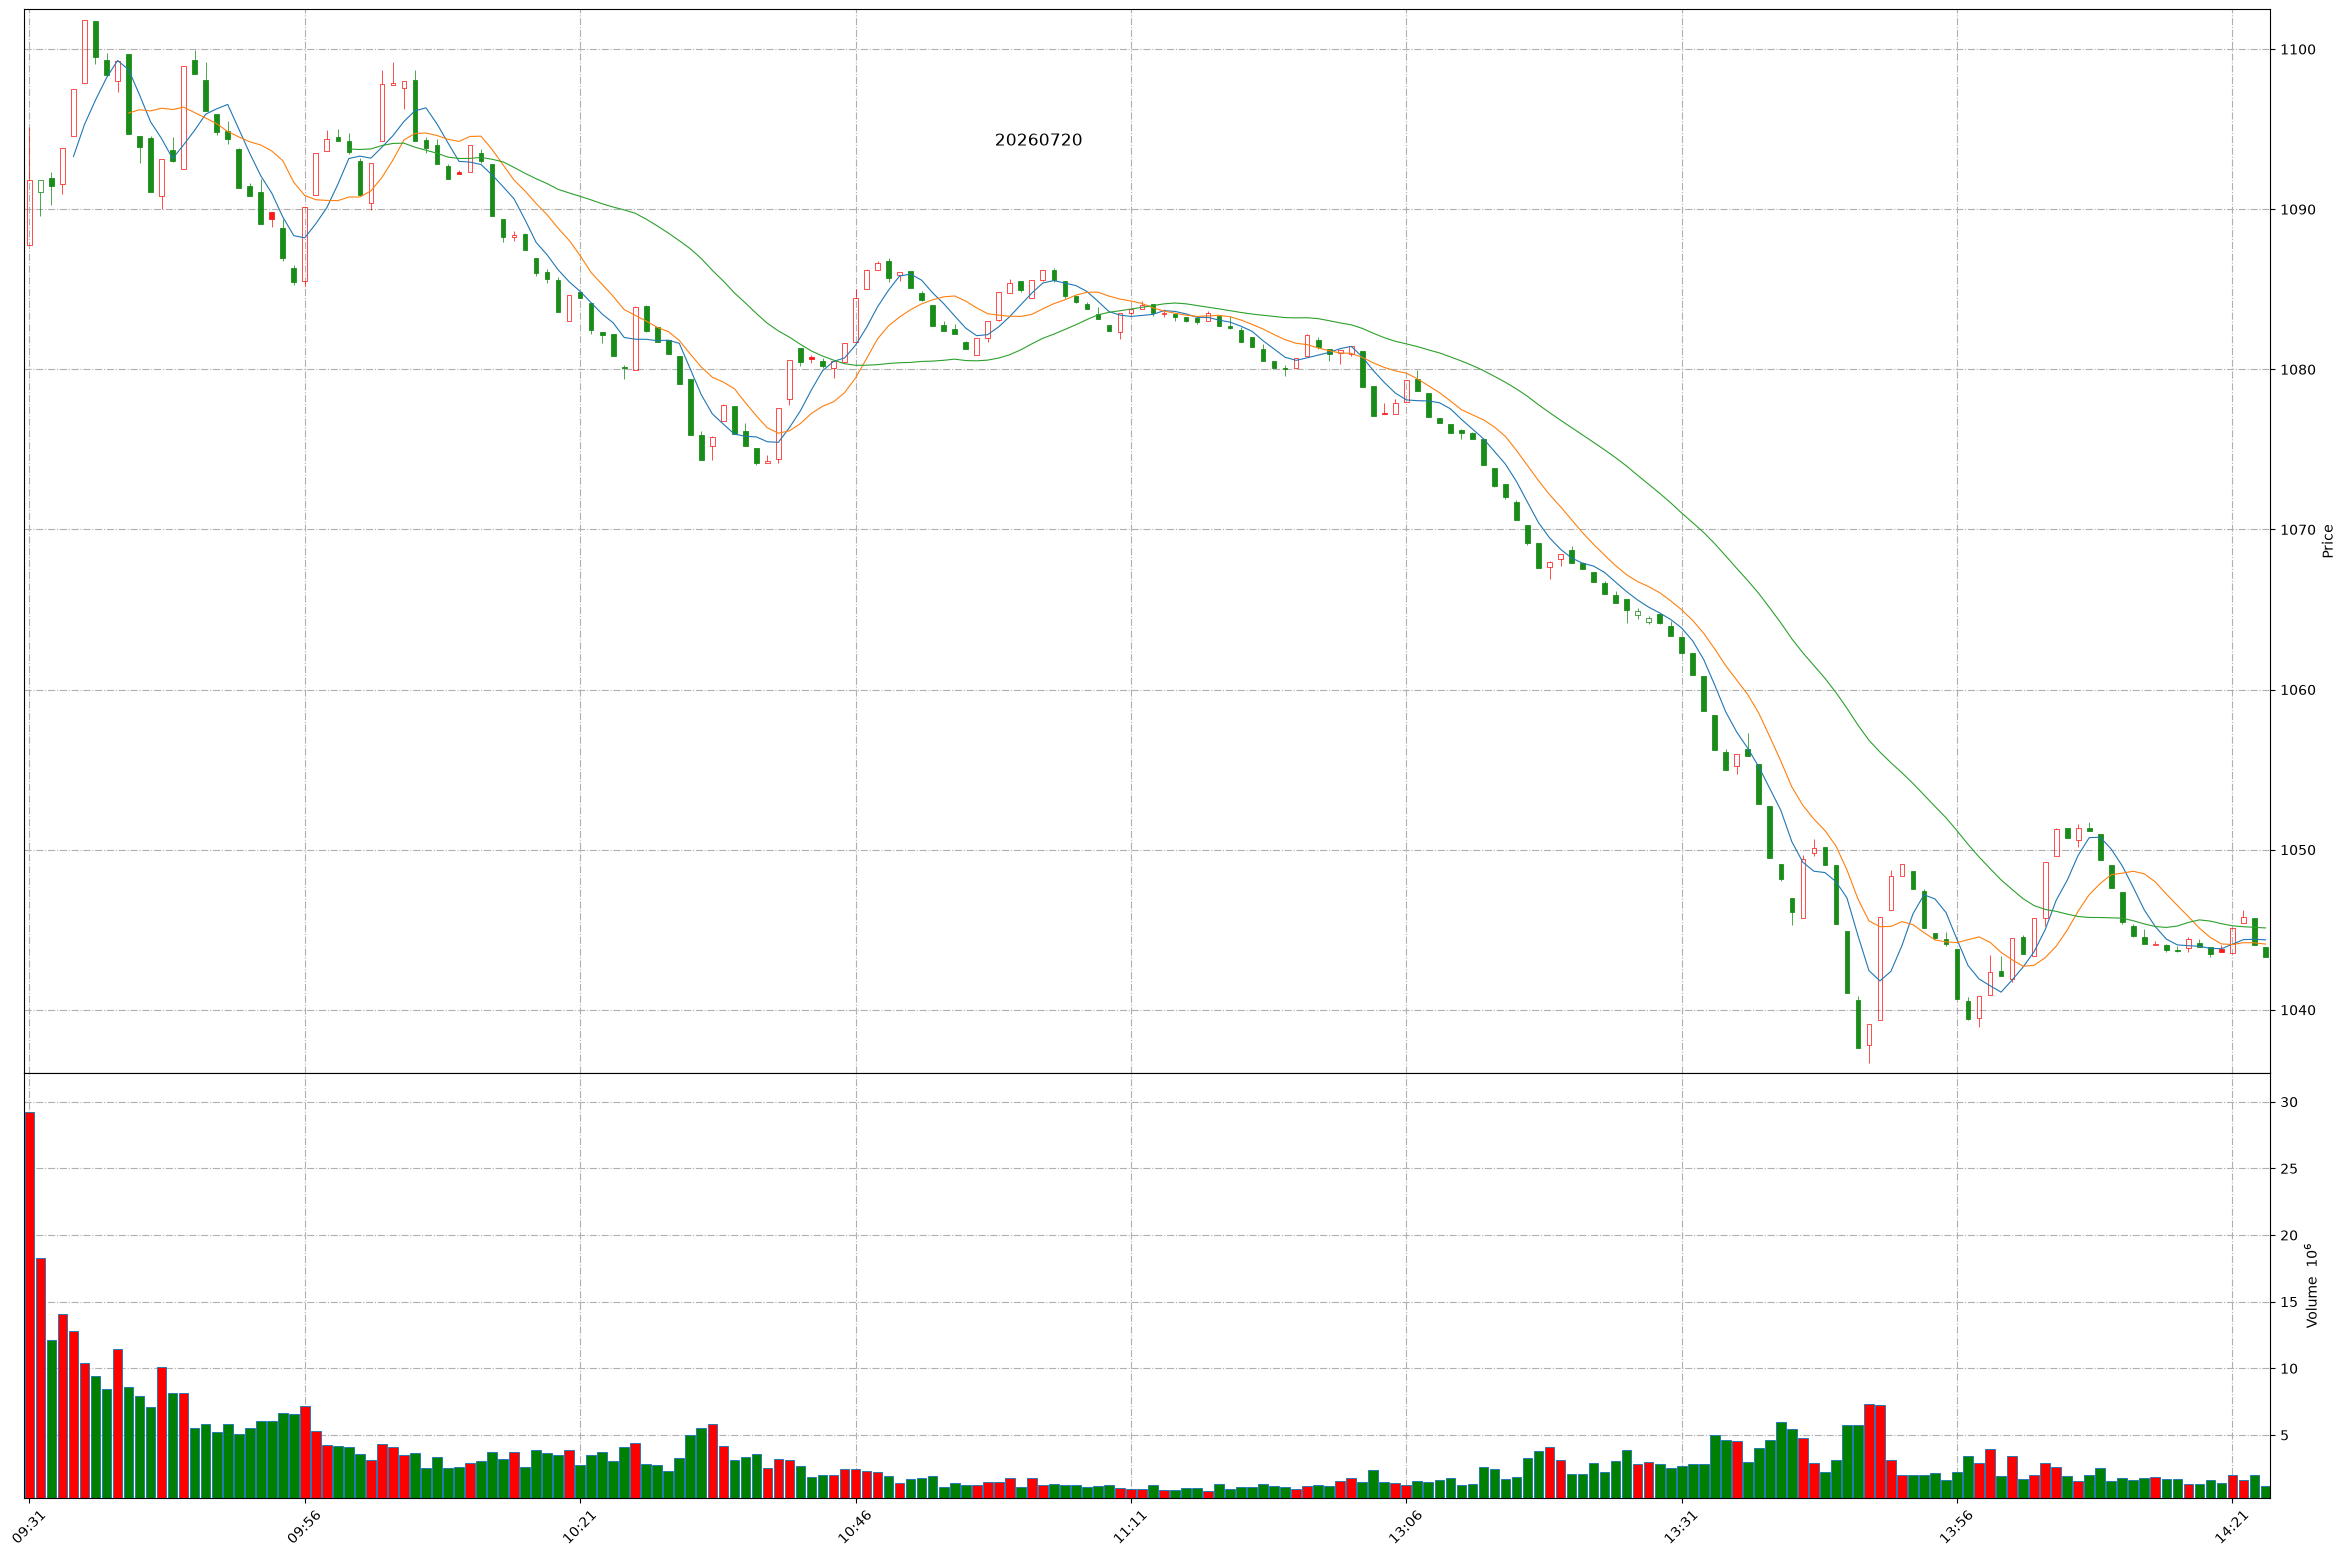
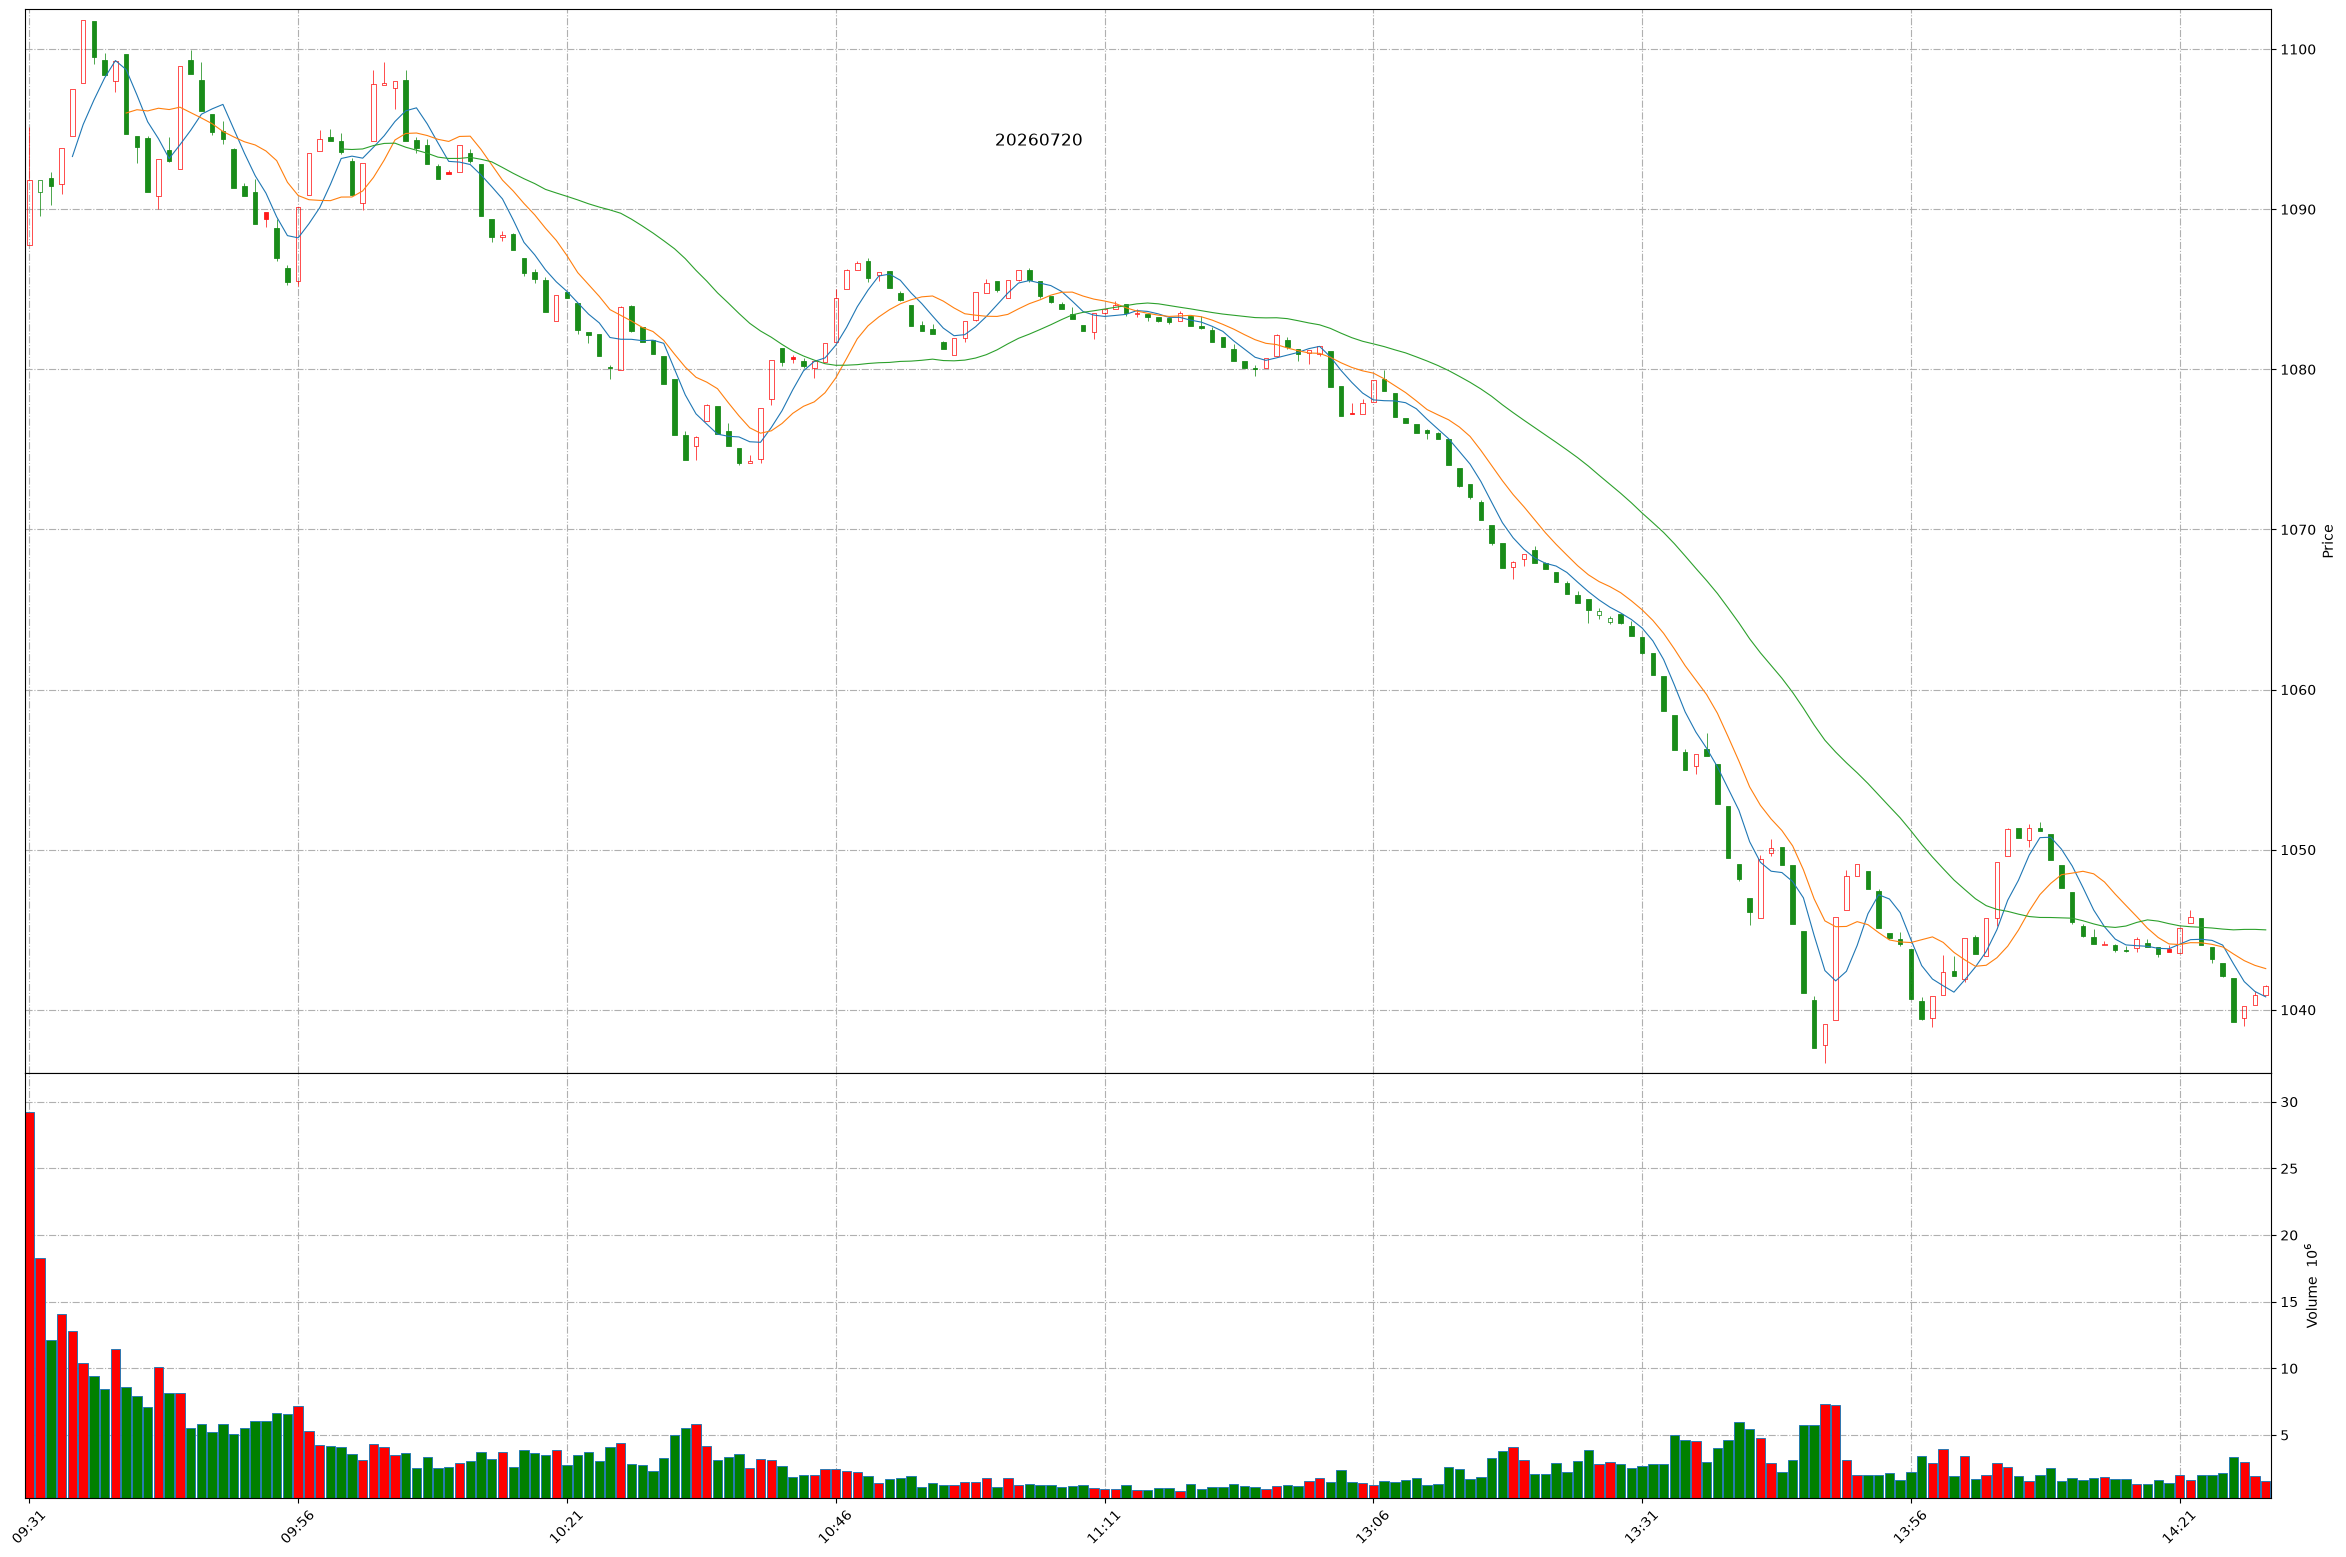
Github action update at 2026-07-20 14:29:01.

Changed region(s): [[0.0311, 0.0308, 0.9646, 0.6782], [0.0, 0.8324, 0.9646, 0.9865]]

diff --git a/README.md b/README.md
@@ -1,11 +1,11 @@
 
 # Daily-A-share-market-quotes 每日 A 股指数（5min 更新）- 20260720
 
-### 上证指数 20260720 14:23
+### 上证指数 20260720 14:29
 ![](./fig/2026/7/20260720-sh000001.png)
 
-### 深证成指 20260720 14:23
+### 深证成指 20260720 14:29
 ![](./fig/2026/7/20260720-sz399001.png)
 
-### 北证50 20260720 14:23
+### 北证50 20260720 14:29
 ![](./fig/2026/7/20260720-bj899050.png)
